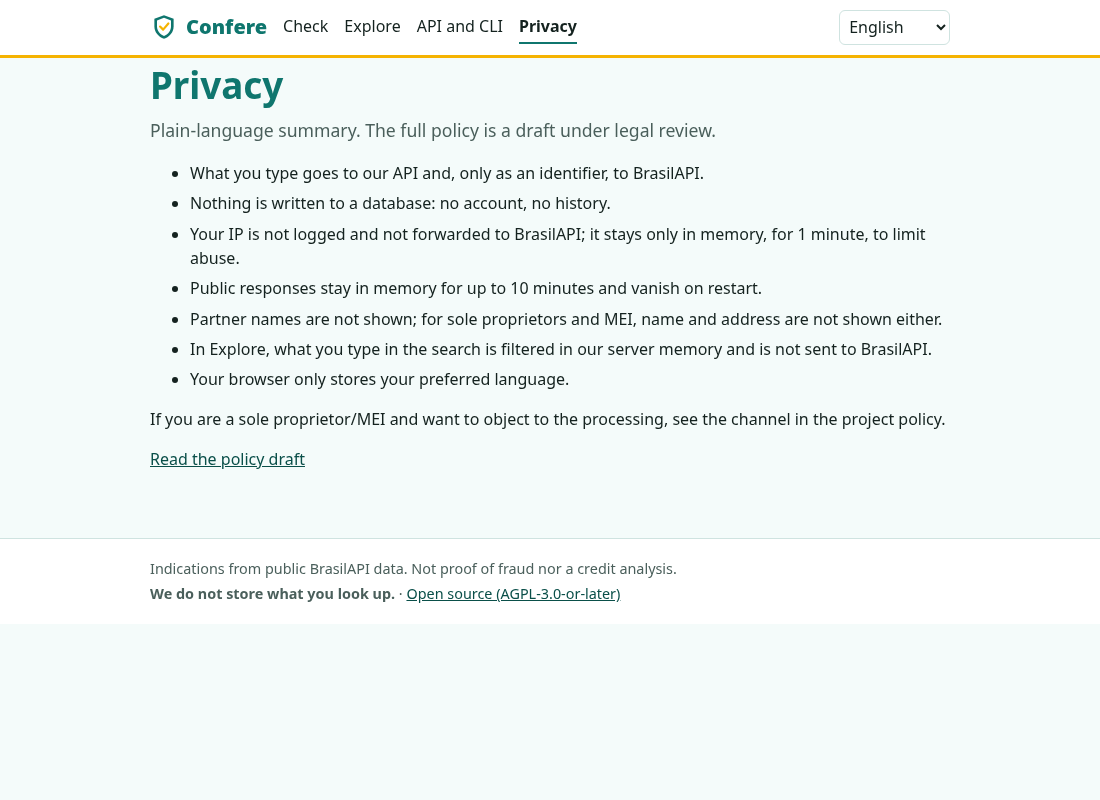
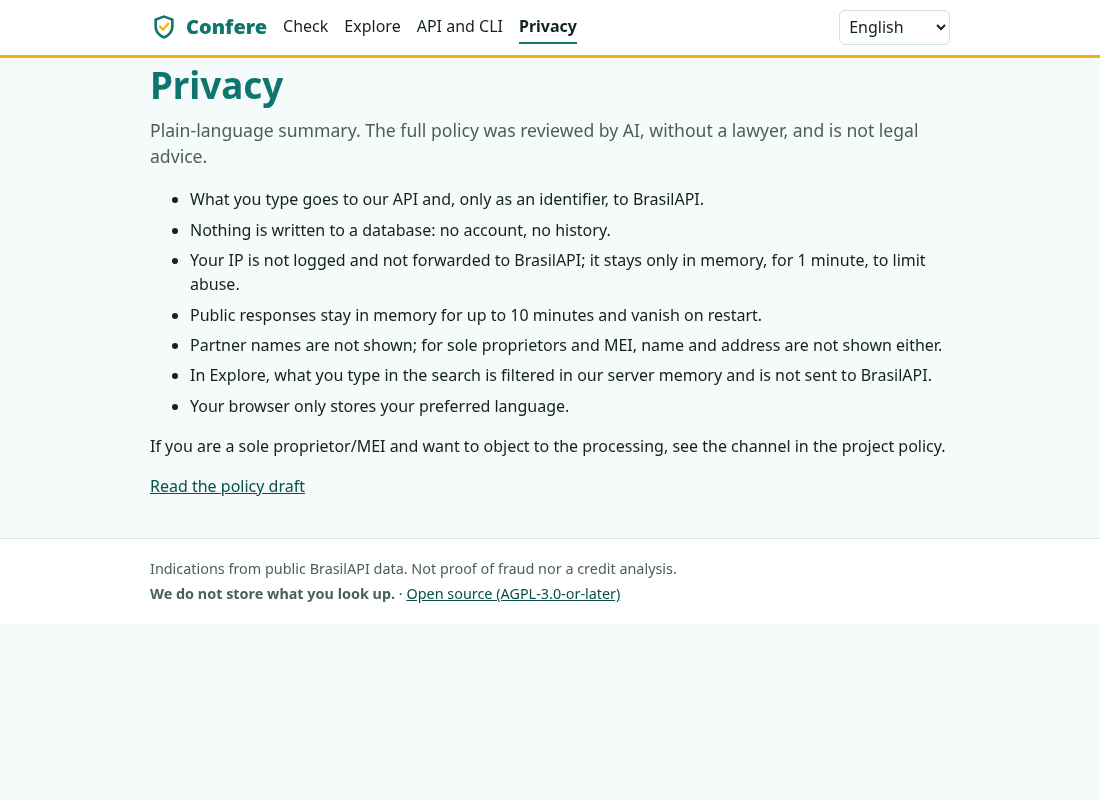
feat(m4.3): compliance self-review, incident runbook, policy v1.1, deployment config check (#19)
AI-assisted LGPD review (no lawyer, by the maintainer's decision) with findings
R1-R10 fixed or tracked: per-instance controller fields, ATPP deadlines, art. 18/20 in
the policy, incident runbook + register + paper tabletop, bounded log rotation,
BrasilAPI hosting (Cloudflare/Vercel, US function) and Marco Civil art. 15 notes.
scripts/checar-implantacao.py (in CI) fails if the proxy logs IP/URL again or the
hardening is lost. Docs pt/en, READMEs and web text no longer claim a pending
legal review.

Changed region(s): [[0.1236, 0.1562, 0.8655, 0.625]]

diff --git a/web/src/messages/pt-BR.ts b/web/src/messages/pt-BR.ts
@@ -134,7 +134,7 @@ export const ptBR = {
   'api.docs': 'Documentação completa',
   'api.cli': 'CLI: instale com `pipx install ./cli` (a partir do repositório) e use `confere --help`.',
   'privacy.title': 'Privacidade',
-  'privacy.draft': 'Resumo em linguagem simples. A política completa é uma minuta em revisão jurídica.',
+  'privacy.draft': 'Resumo em linguagem simples. A política completa foi revisada por IA, sem advogado(a), e não é aconselhamento jurídico.',
   'privacy.l1': 'O que você digita vai para a nossa API e, só como identificador, para a BrasilAPI.',
   'privacy.l2': 'Nada é gravado em banco de dados: sem conta, sem histórico.',
   'privacy.l3': 'Seu IP não vai em log e não é repassado à BrasilAPI; ele fica só na memória, por 1 minuto, para limitar abusos.',

diff --git a/web/src/messages/en.ts b/web/src/messages/en.ts
@@ -136,7 +136,7 @@ export const en: Messages = {
   'api.docs': 'Full documentation',
   'api.cli': 'CLI: install with `pipx install ./cli` (from the repository) and run `confere --help`.',
   'privacy.title': 'Privacy',
-  'privacy.draft': 'Plain-language summary. The full policy is a draft under legal review.',
+  'privacy.draft': 'Plain-language summary. The full policy was reviewed by AI, without a lawyer, and is not legal advice.',
   'privacy.l1': 'What you type goes to our API and, only as an identifier, to BrasilAPI.',
   'privacy.l2': 'Nothing is written to a database: no account, no history.',
   'privacy.l3': 'Your IP is not logged and not forwarded to BrasilAPI; it stays only in memory, for 1 minute, to limit abuse.',

diff --git a/scripts/checar-implantacao.py b/scripts/checar-implantacao.py
@@ -1,0 +1,76 @@
+#!/usr/bin/env python3
+"""Confere a configuração de implantação contra regressões de privacidade e segurança (só biblioteca padrão).
+
+Falha se o Caddyfile voltar a registrar acessos/IP/URL, se faltar CSP ou limite de corpo, ou se o Compose perder o
+endurecimento (somente leitura, sem capacidades, API sem porta publicada, Swagger ligado, logs sem rotação).
+Complementa o `deploy/smoke.sh`, que testa uma implantação de verdade."""
+
+import re
+import sys
+from pathlib import Path
+
+DEPLOY = Path(__file__).resolve().parent.parent / "deploy"
+problemas: list[str] = []
+
+
+def exige(cond: bool, msg: str) -> None:
+    if not cond:
+        problemas.append(msg)
+
+
+def bloco_global(caddy: str) -> str:
+    """Primeiro bloco `{ ... }` do Caddyfile (opções globais)."""
+    inicio = caddy.index("{")
+    nivel = 0
+    for i, c in enumerate(caddy[inicio:], inicio):
+        nivel += c == "{"
+        nivel -= c == "}"
+        if nivel == 0:
+            return caddy[inicio : i + 1]
+    raise ValueError("Caddyfile sem fechamento de bloco global")
+
+
+def main() -> int:
+    caddy = (DEPLOY / "Caddyfile").read_text(encoding="utf-8")
+    sem_comentarios = "\n".join(re.sub(r"#.*", "", l) for l in caddy.splitlines())
+    globais = bloco_global(sem_comentarios)
+    resto = sem_comentarios.replace(globais, "", 1)
+
+    exige(not re.search(r"^\s*log\b", resto, flags=re.M), "Caddyfile: há diretiva `log` no site (registraria acessos, IP e URL)")
+    for campo in ("request>remote_ip", "request>client_ip", "request>uri", "request>headers"):
+        exige(re.search(rf"{re.escape(campo)}\s+delete", globais) is not None, f"Caddyfile: o log global não apaga {campo}")
+    exige("level WARN" in globais, "Caddyfile: o log global deve ser só WARN")
+    exige("admin off" in globais, "Caddyfile: a API de administração do Caddy deve estar desligada")
+    exige("default-src 'none'" in resto and "frame-ancestors 'none'" in resto, "Caddyfile: CSP restritiva (com frame-ancestors) ausente")
+    exige("Strict-Transport-Security" in resto, "Caddyfile: HSTS ausente")
+    exige("Referrer-Policy no-referrer" in resto, "Caddyfile: Referrer-Policy no-referrer ausente")
+    exige(re.search(r"max_size\s+\d+KB", resto) is not None, "Caddyfile: limite de corpo (request_body max_size) ausente")
+    exige("-Server" in resto, "Caddyfile: o cabeçalho Server deveria ser removido")
+
+    compose = (DEPLOY / "docker-compose.yml").read_text(encoding="utf-8")
+    servicos = re.split(r"\n  (?=(?:api|web):\n)", compose)
+    exige(len(servicos) >= 3, "Compose: serviços api e web não encontrados")
+    for nome, trecho in zip(("api", "web"), servicos[1:3], strict=False):
+        exige("read_only: true" in trecho, f"Compose: {nome} deve ser somente leitura")
+        exige("cap_drop: [ALL]" in trecho, f"Compose: {nome} deve largar todas as capacidades")
+        exige("no-new-privileges:true" in trecho, f"Compose: {nome} deve usar no-new-privileges")
+        exige("max-size" in trecho and "max-file" in trecho, f"Compose: {nome} precisa de rotação de log limitada")
+    api = servicos[1] if len(servicos) > 1 else ""
+    exige("ports:" not in api, "Compose: a API não pode publicar portas")
+    exige("CONFERE_DOCS" not in re.sub(r"#.*", "", api), "Compose: CONFERE_DOCS não pode ser definido (Swagger usa CDN)")
+    exige('CONFERE_CONFIAR_PROXY: "true"' in api, "Compose: a API deve confiar no proxy (X-Forwarded-For)")
+
+    for nome in ("Dockerfile.api", "Dockerfile.web"):
+        texto = (DEPLOY / nome).read_text(encoding="utf-8")
+        exige("USER 10001:10001" in texto, f"{nome}: deve rodar como usuário sem privilégio")
+    exige("pip uninstall -y pip setuptools" in (DEPLOY / "Dockerfile.api").read_text(encoding="utf-8"), "Dockerfile.api: pip/setuptools devem sair da imagem final")
+
+    if problemas:
+        print("\n".join(f"- {p}" for p in problemas), file=sys.stderr)
+        return 1
+    print("ok: Caddyfile, Compose e Dockerfiles seguem as regras de privacidade e segurança")
+    return 0
+
+
+if __name__ == "__main__":
+    sys.exit(main())

diff --git a/.lgpd/revisao-conformidade.md b/.lgpd/revisao-conformidade.md
@@ -1,0 +1,77 @@
+# Revisão de conformidade (LGPD) — Confere
+
+**Data**: 2026-11-17 · **Quem revisou**: Claude (IA), no papel de "revisor jurídico simulado", seguindo as skills de [goul4rt/lgpd-skills](https://github.com/goul4rt/lgpd-skills) · **Decisão do mantenedor**: não haverá revisão por advogado(a).
+
+> **Limite honesto**: esta é uma revisão assistida por IA. **Não é aconselhamento jurídico** e não substitui um profissional. Ela confere os artefatos `.lgpd/` contra o código e os testes reais e contra os dispositivos citados. As resoluções da ANPD (2/2022, 15/2024, 18/2024, 19/2024, 32/2026) **não estão** em `ctresb/leis`: foram citadas como constam nas skills e devem ser conferidas no texto oficial antes de qualquer afirmação pública. Quem hospeda uma instância é o controlador dela e responde por ela.
+
+## 1. Resumo
+
+| Área | Resultado |
+|---|---|
+| Bases legais e LIA | Coerentes com o que o código faz; um ponto de atenção (MEI/EI) tratado por minimização |
+| Princípios do art. 6º | Atendidos, cada um com evidência no código ou nos testes (tabela 2) |
+| Transparência (art. 9º) | **Lacunas corrigidas** nesta revisão: identificação do controlador por instância, prazos, art. 18 e art. 20 |
+| Direitos do titular (art. 18) | Fluxo definido; não há o que apagar por consulta; oposição de MEI/EI analisada caso a caso |
+| Segurança (arts. 46-49) | Controles verificados por teste automático (log, CSP, limite de taxa, contêiner) |
+| Incidentes (art. 48) | Lacuna **corrigida**: runbook, registro e exercício em `incidents/` |
+| Transferência internacional | Achado novo: a fonte (BrasilAPI) roda atrás de Cloudflare/Vercel, com função em região dos EUA; mitigado por só enviar identificadores públicos |
+| Marco Civil (art. 15) | Achado novo: obrigação de guardar logs de acesso pode colidir com "sem IP em log" para instância operada por PJ com fins econômicos |
+| ECA Digital | Não aplicável (ferramenta empresarial, sem conta, sem público infantil) |
+
+## 2. Princípios (art. 6º) e evidências
+
+| Princípio | Evidência |
+|---|---|
+| Finalidade, adequação | Só conferência de fornecedor/pagamento; nenhum outro uso (sem perfil, histórico, anúncio): `data-map.md`, RIPD |
+| Necessidade (minimização) | Nomes de sócios nunca saem (`empresa.py`, testes); MEI/EI sem nome/endereço; corretoras sem e-mail/telefone/endereço (`dados.py`, testes); listas sem logotipo |
+| Livre acesso | Resultado mostra a regra e o peso de cada sinal ("Por quê?"); política em `/privacidade` |
+| Qualidade | Dados repassados como a fonte publica; erro de origem documentado (T14); nunca "sem risco" por falta de dado (502 em vez de adivinhar) |
+| Transparência | Avisos na tela, na API e na CLI: "indício, não prova"; limite do Pix ("não verificamos o titular da chave") |
+| Segurança | M4.2: contêiner sem privilégio, CSP, HSTS, limite de corpo, Trivy, gitleaks, SBOM; testes de privacidade de log |
+| Prevenção | Sem banco, sem conta: reduz o dano de um vazamento; `smoke.sh` confere os logs |
+| Não discriminação | Sem lista negra, sem decisão automatizada, texto contra uso como critério único (política v1.1); RIPD R1 |
+| Responsabilização | Este conjunto de artefatos, testes, CI e histórico em PRs |
+
+## 3. Achados e correções
+
+| # | Achado | Dispositivo | Gravidade | Situação |
+|---|---|---|---|---|
+| R1 | A minuta de política não identificava o controlador nem trazia os prazos e o art. 18 de forma expressa | Art. 9º, III, VI | Média | **Corrigido**: política v1.1 + `instancia-modelo.md` (campos que cada instância preenche) |
+| R2 | `encarregado.md` dava 15 dias para qualquer resposta; no regime ATPP a declaração completa pode levar 30 dias (a conferir na resolução) | Art. 19; Res. 2/2022 | Baixa | **Corrigido** (texto ajustado, marcado "a conferir") |
+| R3 | Não havia runbook de incidente (T7) | Art. 48; Res. 15/2024 | Média | **Corrigido**: `incidents/runbook.md`, `log.md`, exercício |
+| R4 | A retenção de log dizia "7 dias" mas o Docker mantém log sem limite por padrão | Art. 6º, III; 16 | Média | **Corrigido**: rotação limitada no Compose; texto da retenção ajustado para o que existe (log só com método/rota/status/tempo, sem dado pessoal) |
+| R5 | A política não dizia como pedir revisão do "indício" | Art. 20 | Baixa | **Corrigido**: parágrafo na v1.1 (o resultado não é decisão automatizada sobre a pessoa; há canal para contestar) |
+| R6 | A BrasilAPI está atrás de Cloudflare e Vercel, com função em região dos EUA (cabeçalho `x-vercel-id` mostra `gru1::sfo1`): o CNPJ consultado pode ser processado fora do Brasil | Arts. 33-36; Res. 19/2024 | Média | **Mitigado e documentado** em `vendors/brasilapi.md`: só vai o identificador público; nunca IP nem texto livre; alternativa futura: espelhar a base. Segue como T3 |
+| R7 | Marco Civil da Internet, art. 15: provedor de aplicações **constituído como pessoa jurídica, com atividade econômica organizada**, deve guardar registros de acesso por 6 meses. A regra "sem IP em log" pode colidir | Lei 12.965/2014, art. 15 | Média | **Aberto (T15)**: vale só para instâncias de PJ com fins econômicos; a instância pública pessoal/sem fins lucrativos não se enquadra; o deploy documenta a escolha por instância |
+| R8 | Dados de MEI/EI são dados pessoais; o tratamento de "dados de acesso público" não dispensa finalidade e boa-fé | Art. 7º, §§ 3º-4º | Baixa | Já mitigado por minimização, LIA e canal de oposição |
+| R9 | Local de cada instância (hospedagem) define operador e transferência | Art. 39 | Média | **Aberto (T2)**: decisão do mantenedor quando for hospedar |
+| R10 | O e-mail dedicado de privacidade ainda não existe | Art. 41, §2º; Res. 2/2022 art. 11 | Média | **Aberto (T1)**: decisão do mantenedor |
+
+## 4. O que a revisão NÃO cobre
+
+- Validade jurídica dos enquadramentos (ATPP, legítimo interesse para dados de acesso público, ECA Digital): são interpretações razoáveis, não pareceres.
+- Texto oficial das resoluções da ANPD e do Marco Civil: conferir na fonte.
+- Contratos com o provedor de hospedagem (operador) e a conformidade da própria BrasilAPI.
+- Teste de invasão por terceiro: não realizado (verificações automáticas e revisão de código foram feitas, ver `docs` → Segurança).
+
+## 4b. Revisão de segurança do código (feita junto)
+
+| Risco | Verificação |
+|---|---|
+| Execução de código / injeção | Busca no código por `eval`, `exec`, `subprocess`, `shell=True`, `pickle`, `innerHTML`, `dangerouslySetInnerHTML`: nenhuma ocorrência |
+| SSRF e URL montada com texto livre | Cliente da BrasilAPI com endereço-base fixo; só CNPJ normalizado (`^[0-9A-Z]{14}$`) e UF (`^[A-Z]{2}$`) entram na URL; a busca nunca vai à fonte; testes cobrem |
+| XSS / clickjacking | React escapa tudo; CSP `default-src 'none'` com `frame-ancestors 'none'` no proxy |
+| CSRF | Sem cookies nem sessão; CORS fechado por padrão |
+| Negação de serviço | Limite de taxa por origem, corpo de até 16 KB, tempos limite, listas em cache com trava de download único |
+| Vazamento em log / erro | Testes automáticos de log; erros de validação não ecoam o valor enviado |
+| Injeção de fórmula em CSV | Prefixo `'` em células que começam com `=`, `+`, `-`, `@`; testes |
+| Cadeia de suprimentos | `pip-audit`, `npm audit` (com exceção documentada), licenças, SBOM, Trivy, gitleaks, Dependabot |
+| Configuração de implantação | `scripts/checar-implantacao.py` (falha em regressão, testado) e `deploy/smoke.sh` |
+
+Não foi feito teste de invasão por terceiro.
+
+## 5. Pendências que dependem de uma pessoa
+
+1. **T1** criar o e-mail dedicado de privacidade (e usá-lo em `CONFERE_ACME_EMAIL` e na política).
+2. **T2/T16** escolher a hospedagem e preencher `instancia-modelo.md` antes de anunciar uma instância pública.
+3. **T15** decidir, por instância, sobre o art. 15 do Marco Civil.

diff --git a/.lgpd/policies/privacy-policy-v1.md b/.lgpd/policies/privacy-policy-v1.md
@@ -1,23 +1,27 @@
-# Política de Privacidade do Confere — v1 (MINUTA, não publicar antes da revisão jurídica)
+# Política de Privacidade do Confere — v1.1
 
-**Quem somos.** O Confere é software livre. Esta política vale para a instância operada pelo mantenedor do projeto. Quem hospeda outra instância é responsável por ela.
+> **Estado**: minuta revisada por IA em 2026-11-17 (ver `../revisao-conformidade.md`). **Não é aconselhamento jurídico** e não passou por advogado(a). Cada instância preenche os campos entre colchetes com a sua `instancia.md` (modelo em `../instancia-modelo.md`) antes de publicar.
 
-**O que fazemos.** Você informa um CNPJ, banco ou outro identificador e mostramos dados públicos e indícios explicados, obtidos da BrasilAPI. Não é prova de fraude nem análise de crédito.
+**Quem é o controlador.** O Confere é software livre. Quem hospeda uma instância é o controlador dos dados tratados nela. Nesta instância: **[NOME COMPLETO OU RAZÃO SOCIAL]**, **[CPF/CNPJ]**, **[ENDEREÇO]**. Canal de privacidade: **[E-MAIL DEDICADO]**. **[Encarregado: NOME, ou: controlador de pequeno porte dispensado de indicar encarregado, com canal de comunicação, nos termos da Res. CD/ANPD nº 2/2022]**.
 
-**Que dados tratamos.** O identificador que você digita; dados públicos da empresa (alguns podem ser de pessoa física, como empresário individual/MEI); seu endereço IP, por até 60 segundos em memória, para limitar abusos.
+**O que fazemos e por quê (finalidade e base legal).** Você informa um CNPJ, banco ou outro identificador e mostramos dados públicos e indícios explicados, obtidos da BrasilAPI, para ajudar a **prevenir fraudes e conferir quem vai receber um pagamento**. Base legal: **legítimo interesse** (art. 7º, IX) e tratamento de dados de **acesso público** (art. 7º, §§ 3º e 4º, LGPD). Não é prova de fraude nem análise de crédito.
 
-**Explorador de dados abertos.** O texto que você digita na busca é filtrado na memória do nosso servidor e não é enviado à BrasilAPI. Dados de contato de corretoras (e-mail, telefone, endereço) não são exibidos.
+**Que dados tratamos.** O identificador que você digita (CNPJ, ISPB, código de banco ou texto de busca); dados públicos de empresas (alguns são de pessoa física: empresário individual e MEI, por isso mostramos menos); seu endereço IP, **por até 60 segundos, só em memória e sem guardar o valor original**, para limitar abusos. O que você digita na busca do explorador é filtrado na memória do nosso servidor e **não é enviado à BrasilAPI**.
 
-**O que NÃO fazemos.** Não pedimos conta, não gravamos o que você consulta, não registramos seu IP em log, não usamos cookies de rastreamento nem anúncios, não vendemos dados e não montamos perfis.
+**O que NÃO fazemos.** Não pedimos conta, não gravamos o que você consulta, não registramos seu IP nem o CNPJ nos logs, não usamos cookies de rastreamento, anúncios, perfis ou histórico e não vendemos dados. O navegador guarda só o seu idioma preferido.
 
-**Base legal.** Legítimo interesse (prevenção a fraudes e segurança) e tratamento de dados de acesso público (LGPD, art. 7º, IX e §§ 3º-4º).
+**Por quanto tempo.** Respostas públicas ficam em memória por até 10 minutos (listas de dados abertos, até 24 horas) e somem ao reiniciar. Os logs guardam só método, rota genérica, status e tempo, sem dado pessoal, com rotação limitada. **[Se esta instância for obrigada a guardar registros de acesso (Marco Civil da Internet, art. 15), descreva aqui: o quê, por quanto tempo (6 meses), com acesso restrito e sem outro uso.]**
 
-**Com quem compartilhamos.** Enviamos à BrasilAPI só o identificador consultado (nunca o seu IP). A hospedagem pode atuar como operadora: [A DEFINIR].
+**Com quem compartilhamos.** Enviamos à BrasilAPI **só o identificador consultado** (nunca o seu IP). A BrasilAPI é a fonte dos dados e usa a infraestrutura de terceiros (por exemplo, Cloudflare e Vercel), que pode processar fora do Brasil; por isso só enviamos identificadores públicos. A hospedagem desta instância é **[PROVEDOR, PAÍS]** e atua como operadora. Não há outros destinatários.
 
-**Por quanto tempo.** Respostas públicas ficam até 10 minutos em memória; o IP, 60 segundos.
+**Seus direitos (art. 18 da LGPD).** Você pode pedir confirmação do tratamento, acesso, correção, anonimização, bloqueio ou eliminação, portabilidade, informação sobre compartilhamento e revogação, e **se opor** a tratamento feito com base em legítimo interesse (art. 18, § 2º). O canal é gratuito. Respondemos em formato simplificado de imediato e com declaração completa em até **[15 dias; 30 dias para controlador de pequeno porte, conforme a Res. CD/ANPD nº 2/2022]**. Se você é empresário individual ou MEI e quer se opor ao tratamento do seu CNPJ, escreva para o canal acima. Como não guardamos dados por consulta, em geral a resposta é que não há o que apagar.
 
-**Seus direitos.** Acesso, correção, oposição e outros (art. 18). Se você é empresário individual/MEI e se opõe ao tratamento, escreva para [E-MAIL DE PRIVACIDADE, A CRIAR]. Como não guardamos dados por consulta, em geral a resposta é que não há o que apagar.
+**Decisões e o "indício" (art. 20).** O Confere **não toma decisões sobre pessoas**: ele mostra indícios com a regra de cada um ("Por quê?"). Não use o resultado como único critério para negar serviço, crédito ou contrato a alguém, nem para discriminar. Se você acha que um indício está errado ou foi usado contra você, escreva para o canal acima e peça revisão.
 
-**Segurança.** Conexão cifrada, validação de entrada, destinos restritos, sem banco de dados.
+**Segurança.** Conexão cifrada (HTTPS), validação de entrada, destinos restritos, sem banco de dados, contêiner sem privilégio, política de segurança de conteúdo e verificações automáticas. Incidentes seguem o runbook em `incidents/runbook.md` e a Res. CD/ANPD nº 15/2024.
 
-**Mudanças.** Esta política é versionada no repositório (`.lgpd/policies/`).
+**Transferência internacional.** Ver "Com quem compartilhamos". **[Se a hospedagem for fora do Brasil, indique o país e o mecanismo (adequação ou cláusulas-padrão).]**
+
+**Crianças e adolescentes.** O serviço é uma ferramenta empresarial, sem conta, e não é direcionado a menores.
+
+**Mudanças.** Esta política é versionada no repositório (`.lgpd/policies/`). Mudanças relevantes são anunciadas na página de privacidade.

diff --git a/.lgpd/incidents/runbook.md b/.lgpd/incidents/runbook.md
@@ -1,0 +1,45 @@
+# Runbook de incidente de segurança — Confere (v1)
+
+Base: LGPD art. 48 e Res. CD/ANPD nº 15/2024 (conferir no texto oficial). Aplica-se a **cada instância com dados reais de usuários**; quem hospeda é o controlador e assina as comunicações. Esta é uma minuta produzida com IA, não aconselhamento jurídico.
+
+## O que pode dar errado no Confere (e o que está em jogo)
+
+O Confere **não guarda** consultas, contas nem histórico. O dano potencial é menor, mas existe:
+
+| Cenário | Dados em risco | Gravidade típica |
+|---|---|---|
+| C1. Regressão que volta a gravar IP/CNPJ/busca em log (proxy, API ou plataforma) | Quem consultou o quê | Média |
+| C2. Servidor/contêiner comprometido | Tráfego em memória por até 10 min; IPs (HMAC) por 60 s; acesso ao proxy | Média |
+| C3. Dependência ou imagem comprometida (cadeia de suprimentos) | Idem C2, mais execução de código | Alta |
+| C4. Abuso: varredura em massa de CNPJs/MEI por terceiros | Dados públicos de MEI/EI já minimizados | Baixa |
+| C5. Falha da BrasilAPI ou dado público errado exibido como certo | Indício incorreto sobre uma empresa | Baixa |
+
+## Fases
+
+1. **T+0 — ciência.** Registre data/hora **com fuso** de quando soube que dados pessoais foram afetados (marco dos prazos). Abra uma entrada em `log.md`.
+2. **T+0 a T+4 h — conter e preservar.**
+   - C1: reverta a mudança; rode `deploy/smoke.sh` (confere os logs); apague/rode a rotação dos logs afetados **depois** de copiar as evidências.
+   - C2/C3: derrube o contêiner (`docker compose down`), troque a imagem por uma versão anterior conhecida, gire o certificado se o volume `caddy_data` pode ter vazado. Preserve `docker compose logs` e o `docker save` das imagens antes de reconstruir.
+   - Não há banco nem sessões para revogar.
+3. **T+4 h a T+24 h — escopo e triagem.** Responda: o que vazou, de quantas pessoas, por quanto tempo? Os dados estavam em memória, em log ou só em trânsito? Havia dado de criança, financeiro, de autenticação ou em larga escala? Aplique o critério **cumulativo** do art. 5º da Res. 15/2024 (risco/dano relevante **e** pelo menos uma das categorias). Registre a decisão e o motivo, **mesmo se não for notificável**.
+4. **Prazo de comunicação.** Se notificável: ANPD e titulares em **3 dias úteis** da ciência (**6 dias úteis** no regime ATPP elegível, salvo risco à integridade física/moral ou à segurança pública), conforme a resolução. Use o canal oficial da ANPD. Conteúdo mínimo: natureza do incidente, dados e titulares afetados, medidas técnicas, riscos, o que foi feito, contato.
+5. **Aos titulares.** Como o Confere não identifica quem consultou, a divulgação será **pública** (página do projeto e da instância) por no mínimo 3 meses, com linguagem simples, quando não for possível avisar individualmente.
+6. **Pós-incidente.** Causa raiz, correção com teste que falha antes e passa depois, atualização de `ROPA.md`, `RIPD.md`, `data-map.md` e `gaps.md`, complemento da comunicação (até 20 dias úteis; 40 em ATPP) quando couber.
+7. **Registro por 5 anos** em `log.md`, **inclusive incidentes não notificados** (art. 10 da Res. 15/2024).
+
+## Quem faz o quê
+
+| Papel | Quem |
+|---|---|
+| Responsável pela instância (controlador) | Mantenedor da instância |
+| Detecção e contenção técnica | Operação da instância (pode ser a mesma pessoa) |
+| Comunicação à ANPD e aos titulares | Controlador |
+| Contato do hospedeiro (operador) | Definido na ficha da instância |
+
+## Contatos e canais
+
+Preencha na ficha da instância (`instancia-modelo.md`): e-mail dedicado de privacidade e contato do hospedeiro. Relato de vulnerabilidade por terceiros: `SECURITY.md`.
+
+## Exercício (tabletop)
+
+Mínimo anual. O primeiro, em `tabletop-2026-11-17.md`, foi feito **no papel por IA**: serve de roteiro; um exercício cronometrado com pessoas ainda precisa ser feito pelo responsável da instância.

diff --git a/.lgpd/gaps.md b/.lgpd/gaps.md
@@ -4,15 +4,17 @@
 |---|---|---|---|
 | T1 | Criar **e-mail dedicado de privacidade** (não usar o pessoal) e rótulo `privacidade` nas issues | Mantenedor | Alta (antes de publicar) |
 | T2 | Escolher hospedagem/região; avaliar transferência internacional (Res. CD/ANPD 19/2024, 32/2026) | Mantenedor | Alta (M4) |
-| T3 | Conferir termos e hospedagem da BrasilAPI | Claude/Mantenedor | Média |
-| T4 | **Revisão jurídica** de LIA, política, ROPA, RIPD, enquadramento ATPP | Advogado(a) | Alta (antes de anunciar instância pública) |
-| T5 | Confirmar não aplicabilidade do ECA Digital | Advogado(a) | Média |
-| T6 | Decidir se nomes de sócios entram em algum modo opt-in (hoje omitidos) | Mantenedor + advogado(a) | Média |
-| T7 | Runbook de incidente (mesmo sem dado guardado) e simulação | Claude/Mantenedor | Média (M4) |
+| T3 | Hospedagem da BrasilAPI conferida pelos cabeçalhos (Cloudflare/Vercel, função nos EUA): mitigado por só enviar identificadores públicos. Termos de uso e limites ainda a ler | Mantenedor | Baixa |
+| T4 | ~~Revisão jurídica~~ **Decisão do mantenedor (2026-11-17): sem revisão por advogado(a)**. Feita revisão assistida por IA: `revisao-conformidade.md`. Não é aconselhamento jurídico; conferir resoluções da ANPD no texto oficial | — | Fechada (com ressalva) |
+| T5 | ~~Confirmar ECA Digital~~ Avaliado na revisão por IA: não aplicável; reavaliar se surgir conta ou público infantil | — | Fechada (com ressalva) |
+| T6 | Decidir se nomes de sócios entram em algum modo opt-in (hoje omitidos) | Mantenedor | Média |
+| T7 | ~~Runbook de incidente~~ **Resolvido (M4.3)**: `incidents/` (runbook, registro, exercício no papel); falta o exercício cronometrado com pessoas, por instância | — | Fechada |
 | T8 | Teste de invasão/revisão de segurança independente | Terceiro | Média (M4) |
-| T9 | Empresário individual/MEI: nome omitido pode reduzir a utilidade; reavaliar com advogado(a) | Mantenedor | Baixa |
+| T9 | Empresário individual/MEI: nome omitido pode reduzir a utilidade; reavaliar com o uso real | Mantenedor | Baixa |
 | T10 | ~~`/docs` (Swagger) usa CDN~~ **Resolvido (M4.2)**: desligado em produção (compose não define `CONFERE_DOCS`; `smoke.sh` confere) | — | Fechada |
 | T11 | ~~`CONFERE_CONFIAR_PROXY` exige um proxy~~ **Resolvido (M4.2)**: Caddy sobrescreve `X-Forwarded-For`; `smoke.sh` prova que um valor falso não burla o limite | — | Fechada |
 | T12 | ~~CSP como cabeçalho~~ **Resolvido (M4.2)**: Caddyfile envia CSP (com `frame-ancestors 'none'`) e serve o SPA com fallback | — | Fechada |
 | T13 | ~~Proxy sem query string em log~~ **Resolvido (M4.2)**: Caddy sem log de acesso e logs de erro sem IP/URI/cabeçalhos; `smoke.sh` confere os logs | — | Fechada |
 | T14 | A fonte (CVM via BrasilAPI) tem nomes com acentos trocados (ex.: "T-TULOS"); apenas documentado, não corrigimos o dado público | — | Baixa |
+| T15 | Marco Civil, art. 15: instância operada por PJ com atividade econômica organizada deve guardar registros de acesso por 6 meses, o que colide com "sem IP em log"; decidir por instância | Mantenedor da instância | Média (por instância) |
+| T16 | Preencher `instancia-modelo.md` (controlador, endereço, e-mail, hospedagem) e a política v1.1 antes de anunciar uma instância pública | Mantenedor | Alta (antes de anunciar) |

diff --git a/.lgpd/STATUS.md b/.lgpd/STATUS.md
@@ -1,6 +1,6 @@
 # Estado da conformidade LGPD — Confere
 
-Última atualização: 2026-11-17 (M4.2: implantação com Docker/Caddy, logs sem identificadores verificados por `smoke.sh`, T10-T13 fechadas; M4.1: CLI sem estado; M3: explorador de dados abertos, busca só na memória, corretoras minimizadas; M2: interface web sem terceiros, CSP e testes de privacidade; M1.2: "pode pagar?" implementado; M1.1: API do CNPJ; controles de log, minimização, limite e cache cobertos por testes). Pipeline: **A (greenfield)**, skills de [goul4rt/lgpd-skills](https://github.com/goul4rt/lgpd-skills). **Não é aconselhamento jurídico**; todas as minutas aguardam revisão de advogado(a).
+Última atualização: 2026-11-17 (M4.3: revisão de conformidade assistida por IA em `revisao-conformidade.md`, política v1.1, runbook de incidente, ficha da instância; sem revisão por advogado(a), por decisão do mantenedor) (M4.2: implantação com Docker/Caddy, logs sem identificadores verificados por `smoke.sh`, T10-T13 fechadas; M4.1: CLI sem estado; M3: explorador de dados abertos, busca só na memória, corretoras minimizadas; M2: interface web sem terceiros, CSP e testes de privacidade; M1.2: "pode pagar?" implementado; M1.1: API do CNPJ; controles de log, minimização, limite e cache cobertos por testes). Pipeline: **A (greenfield)**, skills de [goul4rt/lgpd-skills](https://github.com/goul4rt/lgpd-skills). **Não é aconselhamento jurídico**. Por decisão do mantenedor **não haverá revisão por advogado(a)**: os artefatos foram revisados por IA (`revisao-conformidade.md`); quem hospeda uma instância responde por ela e deve conferir as resoluções da ANPD no texto oficial.
 
 ## Enquadramento
 
@@ -17,16 +17,18 @@
 | Arquivo | Situação |
 |---|---|
 | `data-map.md` | Rascunho v1 |
-| `legal-basis.md` (inclui LIA) | Rascunho v1, ⏸ revisão jurídica |
+| `legal-basis.md` (inclui LIA) | v1, revisado por IA |
 | `encarregado.md` | Rascunho v1 (canal ATPP) |
 | `ROPA.md` | Rascunho v1, ⏸ checkpoint |
 | `RIPD.md` | Rascunho v1 preventivo, ⏸ checkpoint |
 | `retention.md` | Rascunho v1 |
-| `policies/privacy-policy-v1.md` | Minuta, ⏸ checkpoint; publicar só após revisão |
+| `policies/privacy-policy-v1.md` | v1.1, preencher campos da instância (`instancia-modelo.md`) antes de publicar |
 | `vendors/brasilapi.md` | Rascunho v1 |
 | `eca-digital.md` | Avaliação v1 |
 | `gaps.md` | Pendências priorizadas |
-| `incidents/` | Runbook preparatório em M4 |
+| `incidents/` | Runbook, registro e exercício no papel (M4.3) |
+| `revisao-conformidade.md` | Revisão por IA (M4.3) com achados R1-R10 |
+| `instancia-modelo.md` | Ficha que cada instância preenche |
 
 ## Regra do repositório
 

diff --git a/.lgpd/incidents/tabletop-2026-11-17.md b/.lgpd/incidents/tabletop-2026-11-17.md
@@ -1,0 +1,18 @@
+# Exercício de mesa (tabletop) — 2026-11-17 (no papel, feito por IA)
+
+**Aviso**: nenhuma pessoa foi cronometrada. Serve de roteiro para o exercício real do responsável da instância.
+
+## Cenário C1: o proxy passa a registrar a URL (e, portanto, o CNPJ consultado)
+
+1. **Gatilho**: alguém troca o `Caddyfile` e liga o log de acesso padrão para "depurar". Em 48 h, os logs têm IP e `/v1/cnpj/<CNPJ>/check` de centenas de consultas.
+2. **Detecção esperada**: o `smoke.sh` na CI/implantação falha em "logs sem campos de IP/URL de cliente" e "logs sem o CNPJ consultado". Se ninguém rodou o smoke, a falha só é vista na revisão do PR.
+3. **T+0**: registrar a hora em que alguém percebe. Abrir entrada em `log.md`.
+4. **Contenção (≤ 4 h)**: reverter o `Caddyfile`, recarregar o Caddy, copiar e **depois** apagar os logs; confirmar com o smoke.
+5. **Triagem**: dados = IP + CNPJ consultado (identificam quem consultou quem). Não são sensíveis nem financeiros; a escala é pequena; tempo de exposição curto; os logs ficaram só no servidor. Resultado provável: **risco não relevante, não notificável**, mas **registrado** (art. 10).
+6. **Correção**: o PR que corrigiu inclui um teste de configuração que falha se `log` com `uri`/`remote_ip` reaparecer no Caddyfile (lição: transformar o `smoke.sh` em verificação obrigatória do deploy).
+7. **Perguntas para o grupo**: quem decide "não notificável"? Onde está a evidência? O que mudaria se o proxy fosse de um provedor com log próprio?
+
+## Lições registradas
+
+- O controle mais forte contra este cenário é **teste automático de log**, e ele já existe.
+- Faltava um lugar para guardar a decisão "não notificável": agora é `log.md`.

diff --git a/website/docs/tecnico/seguranca-e-lgpd.md b/website/docs/tecnico/seguranca-e-lgpd.md
@@ -30,7 +30,13 @@ O Confere trata **dados públicos**, mas alguns deles são **dados pessoais** (p
 
 ## Limites
 
-O Confere mostra **indícios** a partir de dados públicos, não prova fraude. Os artefatos `.lgpd/` são **minutas**: precisam de revisão de advogado(a) antes de uma instância pública ser anunciada. Esta documentação não é aconselhamento jurídico.
+O Confere mostra **indícios** a partir de dados públicos, não prova fraude. Por decisão do mantenedor **não há revisão por advogado(a)**: os artefatos `.lgpd/` foram revisados por IA. Nada aqui é aconselhamento jurídico, e as resoluções da ANPD devem ser conferidas no texto oficial.
+
+## Revisão de conformidade
+
+A revisão (`.lgpd/revisao-conformidade.md`) confere cada artefato contra o código e os testes. Ela achou e corrigiu lacunas: identificação do controlador por instância, prazos e artigos 18 e 20 na política, runbook de incidente, rotação limitada de logs e um teste que impede o proxy de voltar a registrar IP e URL. Ficaram em aberto o e-mail dedicado de privacidade, a hospedagem e o artigo 15 do Marco Civil (por instância).
+
+![Artefatos de conformidade em .lgpd](/img/screenshots/lgpd-artefatos.png)
 
 ## Quem é o controlador
 

diff --git a/.lgpd/ROPA.md b/.lgpd/ROPA.md
@@ -6,7 +6,8 @@ Controlador: mantenedor da instância (instância de demonstração: projeto Con
 |---|---|---|---|---|---|---|
 | A001 | Checar CNPJ | CNPJ, dados cadastrais públicos | Legítimo interesse; art. 7º §§ 3º-4º | BrasilAPI (só CNPJ) | Cache de memória, TTL 10 min | TLS, validação, lista de destinos, QSA minimizado |
 | A002 | "Pode pagar?" | CNPJ, ISPB/banco | Idem | BrasilAPI | Idem | Idem |
-| A003 | Explorar dados abertos | Dados de PJ e tabelas públicas | Idem | BrasilAPI | Cache de memória | Idem |
+| A003 | Explorar dados abertos | Dados de PJ e tabelas públicas (corretoras sem contato/endereço); a busca fica só na memória do servidor | Idem | BrasilAPI (só baixa as listas, sem o texto buscado) | Cache de memória, 24 h | Idem |
+| A005 | Linha de comando (CLI) | Os mesmos de A001-A003; nada local | Idem | A API da instância configurada (https) | Nenhuma (sem config, histórico ou cache) | https obrigatório, sem cookies, sem redirecionamento |
 | A004 | Limite de taxa e segurança | IP | Legítimo interesse | Nenhum | 60 s em memória | Sem log de IP |
 
 Operador/terceiros: BrasilAPI (fonte, ver `vendors/brasilapi.md`) e hospedagem (T2). Transferência internacional: a definir (T2).

diff --git a/.lgpd/instancia-modelo.md b/.lgpd/instancia-modelo.md
@@ -1,0 +1,18 @@
+# Ficha da instância (modelo)
+
+Quem hospeda uma instância do Confere é o **controlador** dela (LGPD, art. 5º, VI). Antes de anunciar uma instância pública, copie este arquivo para `instancia.md` (fora do Git, se tiver dados pessoais) e preencha. A política de privacidade (`policies/privacy-policy-v1.md`) usa estes campos.
+
+| Campo | Valor |
+|---|---|
+| Controlador (nome completo ou razão social) | |
+| CPF/CNPJ do controlador | |
+| Endereço (art. 9º, III; pessoa física pode usar endereço para contato) | |
+| Natureza (pessoa física, associação sem fins lucrativos, empresa) | |
+| Atividade econômica organizada? (define o art. 15 do Marco Civil) | sim / não |
+| Se **sim**: guarda de registros de acesso por 6 meses (IP + data/hora), com acesso restrito e sem uso para outro fim | decisão e onde fica |
+| Canal de privacidade (e-mail **dedicado**) | |
+| Encarregado ou dispensa ATPP (Res. 2/2022, art. 11) | |
+| Hospedagem (operador) e país | |
+| Contrato/termos com o operador (art. 39) | |
+| Transferência internacional (hospedagem fora do Brasil?) | |
+| Data da última revisão desta ficha | |
